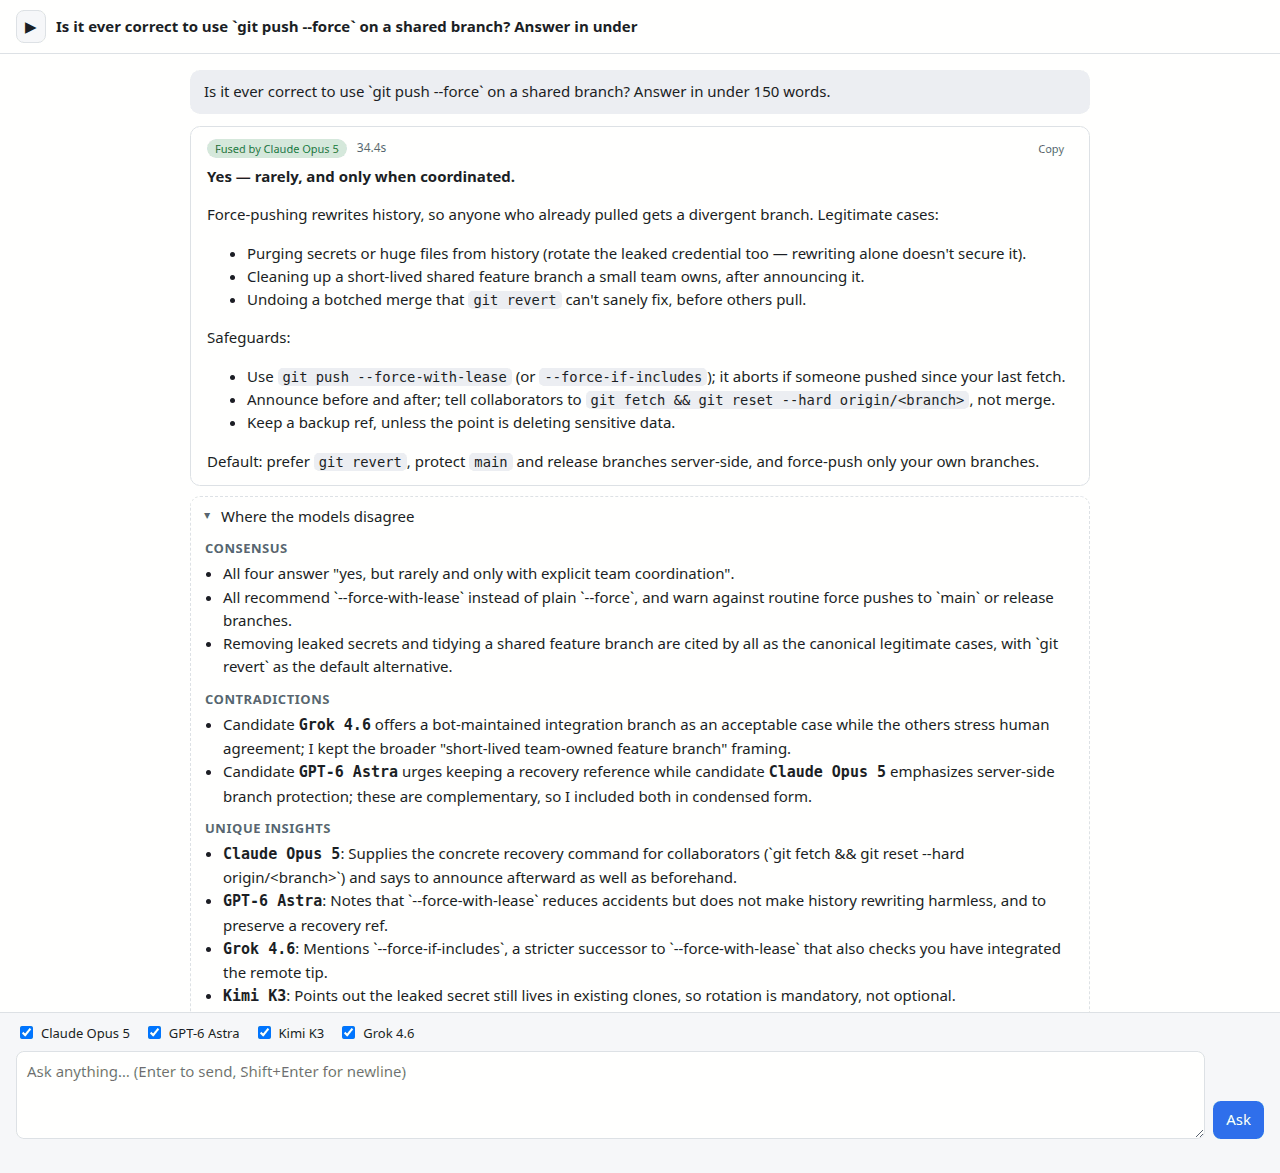
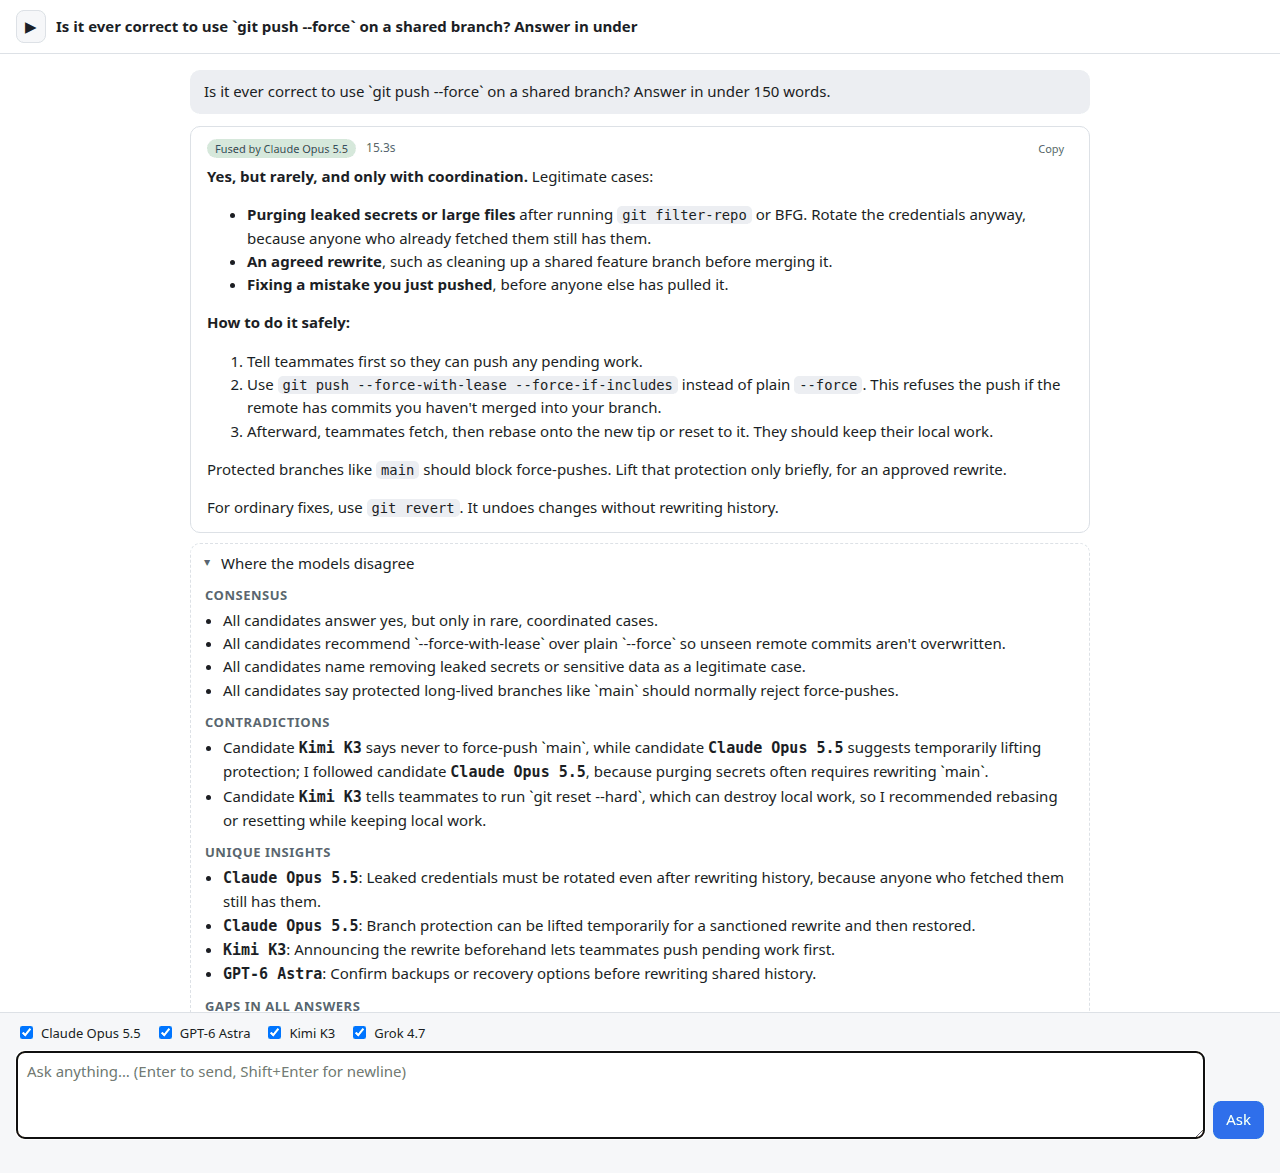
sync-docs: screenshot retaken on the current lanes; stale field-streamer header; THREADS
The screenshot still named Claude Opus 5 and Grok 4.6; codex answers again, so #25 is done
(throwaway instance, light theme, sidebar collapsed, quantized without dithering). The
json-field-stream header still said it decodes claude's input_json_delta, but claude's
synthesizer answers in prose now and the streamer serves grok. #24 re-checked on the new claude
build: the account email still reaches the model. Layout names the traces under src/store/.

Sync-rule-hits: screenshot-current, code-owns-behaviour, threads-current

Claude-Session: https://claude.ai/code/session_01Mi2UJZKX3CHKEy7X66sZJ8

Changed region(s): [[0.0938, 0.1228, 0.8438, 0.89]]

diff --git a/src/parsers/json-field-stream.ts b/src/parsers/json-field-stream.ts
@@ -1,7 +1,8 @@
 /**
  * Incrementally extract the value of one top-level string field from a JSON document that
- * arrives in fragments (Anthropic `input_json_delta`). Lets the UI stream the synthesizer's
- * `answer` field while the surrounding JSON is still being generated.
+ * arrives in fragments (grok's schema output, which is its reply text; the fragments could as well
+ * be Anthropic `input_json_delta`s). Lets the UI stream a synthesizer's `answer` field while the
+ * surrounding JSON is still being generated — claude's synthesizer answers in prose instead.
  *
  * Handles JSON string escapes across fragment boundaries. Only the first occurrence of the
  * key at nesting depth 1 is tracked.

diff --git a/docs/THREADS.md b/docs/THREADS.md
@@ -19,12 +19,12 @@ thread moves. Finished threads go to Archive with a one-line outcome — never d
 | 17 | `claude -p` will default to `--bare` in a future release (bare mode never reads OAuth) | WATCH | Anthropic's headless docs say so (2026-08); `npm run check-updates --help-diff` after every claude upgrade; if the default flips, pass the opposite flag explicitly or the lane dies with an API-key demand |
 | 18 | kimi subscription and non-interactive use | ACCEPTED-RISK | Kimi Code community guidelines (2026-08) say the subscription is for interactive use only, scripted use may be suspended. Owner decided 2026-08-25 to keep the lane on the subscription. Fallback if enforced: the same `kimi` binary on a platform.kimi.com pay-as-you-go key (credential change only, no parser change) |
 | 22 | Automated test for the UI's per-turn name resolution | OPEN | Names inside a turn come from `turns.models_json` (`mountTurn` in `web/app.js`); verified by hand in a headless browser (history vs live turn), no test pins it. Cheapest route: move the resolver into a small pure module that `node:test` can import, without adding a frontend test framework |
-| 24 | The claude CLI adds its own context to every lane despite `--system-prompt` | WATCH | Found 2026-09-23 (the previous build did the same): an SDK preamble, the account's email address and an environment block (sandbox path, OS, model id, date) reach the model; a canary answer once quoted the email in a made-up command. No flag found that removes them; answers are shown only to the account owner, so the exposure is to the owner themselves. Re-check on every claude upgrade |
-| 25 | Retake `docs/screenshot.png`: it still names the lanes Claude Opus 5 and Grok 4.6 | BLOCKED-by-quota | The codex subscription is out of usage until 2026-09-28, and a shot with a rate-limited lane misrepresents a normal turn; retake per the `screenshot-current` rule in the sync-docs skill once codex answers again |
+| 24 | The claude CLI adds its own context to every lane despite `--system-prompt` | WATCH | Found 2026-09-23 (the previous build did the same): an SDK preamble, the account's email address and an environment block (sandbox path, OS, model id, date) reach the model; a canary answer once quoted the email in a made-up command. No flag found that removes them; answers are shown only to the account owner, so the exposure is to the owner themselves. Re-checked 2026-09-24 on the newest build: unchanged. Re-check on every claude upgrade |
 | 16 | Share with a few friends over the owner's domain | ON-HOLD | Decided 2026-08-21 to defer; re-assessed and deferred again 2026-09-20. Path when resumed: Cloudflare Tunnel to the loopback-bound service + Access email allowlist (TLS and identity outside the app); `src/server/auth.ts` trusts the Access JWT as identity; `conversations.owner` column and per-owner filtering in `src/store/db.ts` + `src/server/main.ts`; per-user daily turn cap; cookie `secure` behind the proxy; per-IP login rate limit (today only a fixed delay in `src/server/main.ts`); rewrite the RUNBOOK security posture. Found 2026-09-20: no existing tunnel to reuse, so a named tunnel is created from scratch and its login and the DNS record need the owner in a browser; the subdomain (and whether it sits under the owner's publication brand) is undecided; the SSE ping already outlasts the proxy's idle timeout, so streaming needs no change. File access is already contained by the jail (#15); the subscription-sharing terms risk is the owner's call |
 
 ## Archive
 
+- 2026-09-24 — #25 closed: `docs/screenshot.png` retaken once codex answered again, on a throwaway instance — the lanes now read Claude Opus 5.5, GPT-6 Astra, Kimi K3 and Grok 4.7.
 - 2026-09-20 — #23 closed: `npm run check-updates -- --tools-diff` snapshots what each lane advertises to its model (claude and grok init record through the lane itself, aborted before an answer is generated; codex error variants from its generated schema; kimi prints none) into `fixtures/help/*.tools.txt`; on demand only, the pre-commit hook stays offline.
 - 2026-09-20 — #21 closed: all four CLIs re-verified on the builds installed that day, one teammate per CLI — every premise held and no fixture changed; three lane fixes came out of it (claude `--strict-mcp-config`, grok `--disallowed-tools` for the vendor-feedback tool, codex's new rate-limit error variant) and three stale sentences about kimi and codex; rows in `fixtures/README.md`, rationale in `docs/DESIGN.md`.
 - 2026-08-25 — #20 closed: v0.2.0 tagged for the public release — README positioning and screenshot, SECURITY.md, CONTRIBUTING.md, CI, de-account pass; published at https://github.com/oldantique/fusion with CI green, private vulnerability reporting on and a GitHub release.

diff --git a/CLAUDE.md b/CLAUDE.md
@@ -49,7 +49,7 @@ ask whether a hook can hold it.
 ## Layout (directory level — file headers describe individual files)
 
 - `src/providers/` spawn + parse + retry for each CLI · `src/parsers/` NDJSON parsers ·
-  `src/synth/` prompts and the fan-out/synthesize orchestration · `src/store/` SQLite ·
+  `src/synth/` prompts and the fan-out/synthesize orchestration · `src/store/` SQLite and call traces ·
   `src/server/` HTTP, SSE, auth, job registry · `web/` UI · `scripts/` ops and dev tools ·
   `tests/` · `fixtures/` · `deploy/` service unit · `docs/` · `data/` runtime state (gitignored).
 
